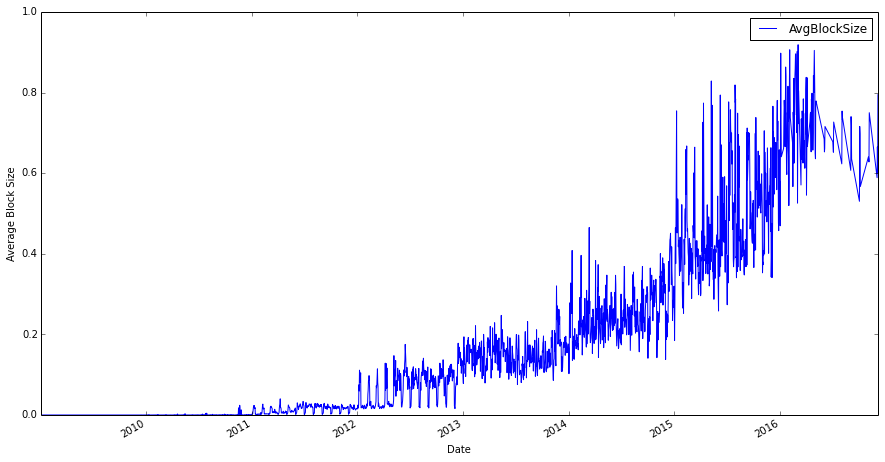
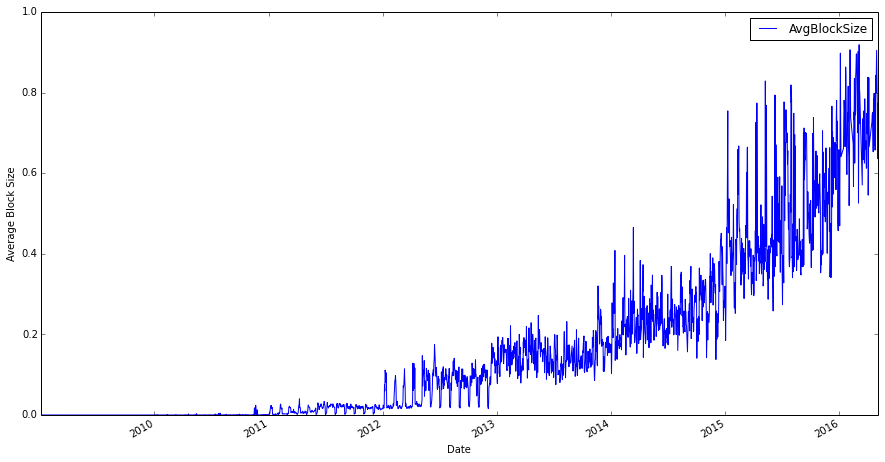
Variable description update for avg-block-size
1 - Variable description update for avg-block-size,
bitcoin-days-destroyed-min-month-over-time,
bitcoin-days-destroyed-over-time.

2 - Over Time figure update for avg-block-size,
bitcoin-days-destroyed-min-month-over-time,
bitcoin-days-destroyed-over-time.

diff --git a/Chapters/Implementation.tex b/Chapters/Implementation.tex
@@ -19,9 +19,25 @@ are outliers in the dataset.
 \subsection{Average Block Size}
 \label{sec:avg-block-size}
 
+A consice definition of a block can be found
+\href{https://en.bitcoin.it/wiki/Block}{here}: \textit{``Each block
+  contains, among other things, a record of some or all recent
+  transactions, and a reference to the block that came immediately
+  before it. It also contains an answer to a difficult-to-solve
+  mathematical puzzle - the answer to which is unique to each
+  block.''}
+
+It's clear that, over time, the size of the block is going to
+increase, because there are more and more transactions in the Bitcoin
+distributed network, due to that
+\autoref{fig:avg-block-size-over-time} shows a non-stoppable
+increasing.
+
 This variable, called avg-block-size represent the average size of the
 blocks in one day measured in MB. One real number data point each day,
-at 18:15:05, spanning from 03/01/2009 to 03/05/2016.
+at 18:15:05, spanning from 03/01/2009 to 03/05/2016. It was obtained
+from the section \textbf{Charts} of
+\href{blockchain.info}{blockchain.info}
 
 \begin{figure}[bth]
   \myfloatalign
@@ -33,8 +49,9 @@ at 18:15:05, spanning from 03/01/2009 to 03/05/2016.
 
 In \autoref{fig:avg-block-size-over-time} can be seen how the average
 block size has been increasing since the creation of Bitcoin. In 2015
-the average block size starts to approach 1 MB until the beggining of
-2016, where it starts to shrink.
+the average block started to dangerously approach the limit of 1 MB,
+which is causing a big debate in the Bitcoin community wheather they
+should increase this limit or not.
 
 \begin{figure}[bth]
   \myfloatalign
@@ -77,8 +94,6 @@ the average block size starts to approach 1 MB until the beggining of
 
 \clearpage
 
-
-
 %----------------------------------------------------------------------
 
 \subsection{Bitcoin Days Destroyed}
@@ -106,10 +121,10 @@ data point each day, at 18:15:05, spanning from 03/01/2009 to
 
 To better understand this variable we include a quote extracted from
 \href{http://bitcoin.stackexchange.com/questions/845/what-are-bitcoin-days-destroyed}{Bitcoin
-  Beta | Stack Exchange}: 
+  Beta | Stack Exchange}:
 
-``\textit{The idea of "bitcoin days destroyed" came about because it was
-  realised that total transaction volume per day might be an
+``\textit{The idea of "bitcoin days destroyed" came about because it
+  was realised that total transaction volume per day might be an
   inappropriate measure of the level of economic activity in Bitcoin.
   After all, someone could be sending the same money back and forth
   between their own addresses repeatedly. If you sent the same 50 btc
@@ -117,29 +132,30 @@ To better understand this variable we include a quote extracted from
   activity, while in fact it represents almost nothing in terms of
   real transaction volume.}
 
-\textit{With "bitcoin days destroyed", the idea is instead to give more
-  weight to coins which haven't been spent in a while. To do this, you
-  multiply the amount of each transaction by the number of days since
-  those coins were last spent. So, 1 bitcoin that hasn't been spent in
-  100 days (1 bitcoin * 100 days) counts as much as 100 bitcoins that
-  were just spent yesterday (100 bitcoins * 1 day). Because you can
-  think of these "bitcoin days" as building up over time until a
-  transaction actually occurs, the actual measure is called "bitcoin
-  days destroyed". This is believed to give a better indication of how
-  much real economic activity is occurring on the bitcoin network.}
+\textit{With "bitcoin days destroyed", the idea is instead to give
+  more weight to coins which haven't been spent in a while. To do
+  this, you multiply the amount of each transaction by the number of
+  days since those coins were last spent. So, 1 bitcoin that hasn't
+  been spent in 100 days (1 bitcoin * 100 days) counts as much as 100
+  bitcoins that were just spent yesterday (100 bitcoins * 1 day).
+  Because you can think of these "bitcoin days" as building up over
+  time until a transaction actually occurs, the actual measure is
+  called "bitcoin days destroyed". This is believed to give a better
+  indication of how much real economic activity is occurring on the
+  bitcoin network.}
 
-\textit{  So how well does it work? Well, it's still not perfect, because the
-  other day I moved some coins out of a wallet they've been in for
-  several months without spending them or giving them away. And some
-  genuine businesses have very rapid turnover in bitcoins, so they're
-  not being measured well by this method. But it does do a good job of
-  filtering out the "noise" of bitcoins that are just "bouncing
-  around" without really going anywhere. The graph of overall bitcoin
-  days destroyed is believed to show that the genuine level of
-  activity in the Bitcoin economy is continually increasing--it's not
-  just one person experimenting by rapidly sending the same coins back
-  and forth, flooding the network with meaningless chatter. Looks
-  pretty good, hey?}''
+\textit{ So how well does it work? Well, it's still not perfect,
+  because the other day I moved some coins out of a wallet they've
+  been in for several months without spending them or giving them
+  away. And some genuine businesses have very rapid turnover in
+  bitcoins, so they're not being measured well by this method. But it
+  does do a good job of filtering out the "noise" of bitcoins that are
+  just "bouncing around" without really going anywhere. The graph of
+  overall bitcoin days destroyed is believed to show that the genuine
+  level of activity in the Bitcoin economy is continually
+  increasing--it's not just one person experimenting by rapidly
+  sending the same coins back and forth, flooding the network with
+  meaningless chatter. Looks pretty good, hey?}''
 
 \begin{table}
   \myfloatalign

diff --git a/Chapters/State-Of-The-Art.tex b/Chapters/State-Of-The-Art.tex
@@ -733,6 +733,7 @@ different dataset used, and different sizes of these datasets.
       issues} \\
     \midrule
     \multicolumn{2}{c}{\textbf{Hybrid techniques}}\\
+    \midrule
     GA + MLP & GA used for: finding MLP weights
     (\cite{pendharkar2004empirical, sai2007hybrid}); selecting
     features (\cite{back1996neural}); selecting features and MLP
@@ -745,7 +746,8 @@ different dataset used, and different sizes of these datasets.
     (\cite{chen2008feature, wu2007real}); selecting features and SVM
     hyper-parameters (\cite{min2006hybrid, ahn2006global}).\\
 
-    GA + k-NN & GA used for finding the appropriate k value (\cite{quintana2008early}).\\
+    GA + k-NN & GA used for finding the appropriate k value
+    (\cite{quintana2008early}).\\ 
 
     GA + NLN & GA used for finding the network topology and parameters
     (\cite{tsakonas2006bankruptcy}).\\
@@ -782,7 +784,7 @@ different dataset used, and different sizes of these datasets.
     trained using the financial data augmented with the prediction
     obtained from the MLP (\cite{huysmans2006failure}).\\
 
-    NT + MLP Feature set for MLP is augmented with Mahalanobis
+    NT + MLP & Feature set for MLP is augmented with Mahalanobis
     distance measures (\cite{markham1995combining}; features are
     transformed by applying NT (\cite{piramuthu1998using}).\\
 
@@ -791,31 +793,49 @@ different dataset used, and different sizes of these datasets.
     features and also to generate an additional input to MLP
     (\cite{lee2002credit}).\\
 
-% LR + MLP Features are selected by LR and then used in MLP (Back et al. 1996).
-% LR + FR LR and FR are combined. Fuzzy regression parameters are found by solving a linear
-% programming problem (Tseng and Lin 2005).
-% CBR and IR techniques are combined (Elhadi 2000).
-% CBR + IR
-% Ensemble techniques
-% MLP + k-NN + C4.5
-% MLP, k-NN, and C4.5 are aggregated by stacking via a new MLP. To promote diversity,
-% different techniques are used to select features for ensemble members (Shin et al. 2006).
-% MLP Ensemble of 30 bagged MLPs (Shin et al. 2006).
-% MLP Three different types of ensembles of 100 MLPs created using bagging, cross validation, or
-% AdaBoosting (West et al. 2005).
-% MLP To reduce dimensionality input features are transformed by applying PCA (Shin and Kilic
-% 2006).
-% RBF A bagged ensemble. Features are selected separately for each network trained on a separate
-% bagged data set (Chan et al. 2006).
-% RBF Diversity is promoted during the GA-based feature selection by including a diversity term in
-% the fitness function. Features are selected simultaneously for all members (Yeung et al.
-% 2007a, b).
-% DT An ensemble of DT created using the AdaBoost algorithm (Alfaro et al. 2008; Cortes et al.
-% 2007).
-% SVM Bagged ensemble of SVMs, where different ensemble members use different hyper-
-% parameters (Yu et al. 2007).
-% MLP+LDA+LR+ MARS+C4.5 Aggregation by voting and weighted sum are explored. GA is used to find the aggregation
-% weights (Olmeda and Fernandez 1997).
+    LR + MLP & Features are selected by LR and then used in MLP
+    (\cite{back1996neural}).\\ 
+
+    LR + FR & LR and FR are combined. Fuzzy regression parameters are
+    found by solving a linear programming problem
+    (\cite{tseng2005quadratic}).\\
+
+    CBR + IR & CBR and IR techniques are combined (\cite{elhadi2000bankruptcy}).\\
+
+    \midrule
+    \multicolumn{2}{c}{\textbf{Ensemble techniques}}\\
+    \midrule
+    
+    MLP + k-NN + C4.5 & MLP, k-NN, and C4.5 are aggregated by stacking
+    via a new MLP. To promote diversity, different techniques are used
+    to select features for ensemble members (\cite{shin2006using}).\\
+
+    MLP & Ensemble of 30 bagged MLPs (\cite{shin2006using}).\\
+
+    MLP & Three different types of ensembles of 100 MLPs created using
+    bagging, cross validation, or AdaBoosting (West et al. 2005).\\
+
+    MLP & To reduce dimensionality input features are transformed by
+    applying PCA (\cite{shin2006ensemble}).\\
+
+    RBF & A bagged ensemble. Features are selected separately for each
+    network trained on a separate bagged data set
+    (\cite{chan2006bankruptcy}).\\ 
+
+    RBF & Diversity is promoted during the GA-based feature selection
+    by including a diversity term in the fitness function. Features
+    are selected simultaneously for all members
+    (\cite{yeung2007bankruptcy, yeung2007multiple}).\\
+
+    DT & An ensemble of DT created using the AdaBoost algorithm
+    (Alfaro et al. 2008; Cortes et al. 2007).\\
+
+    SVM & Bagged ensemble of SVMs, where different ensemble members
+    use different hyper- parameters (Yu et al. 2007).\\
+
+    MLP+LDA+LR+ MARS+C4.5 & Aggregation by voting and weighted sum are
+    explored. GA is used to find the aggregation weights (Olmeda and
+    Fernandez 1997).\\
 
     \bottomrule
   \end{tabu}

diff --git a/main.tex b/main.tex
@@ -135,7 +135,7 @@
 
 \part{State-Of-The-Art} % Second part of the thesis
 
-\include{Chapters/State-Of-The-Art} % Chapter 2
+% \include{Chapters/State-Of-The-Art} % Chapter 2
 
 \include{Chapters/Implementation}
 
